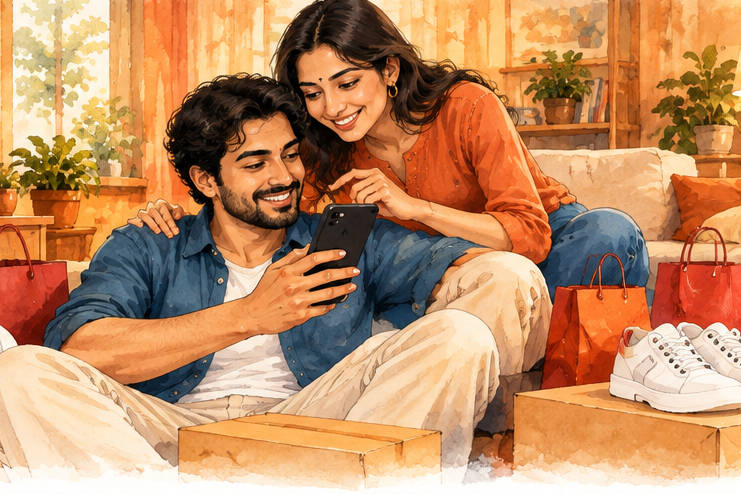
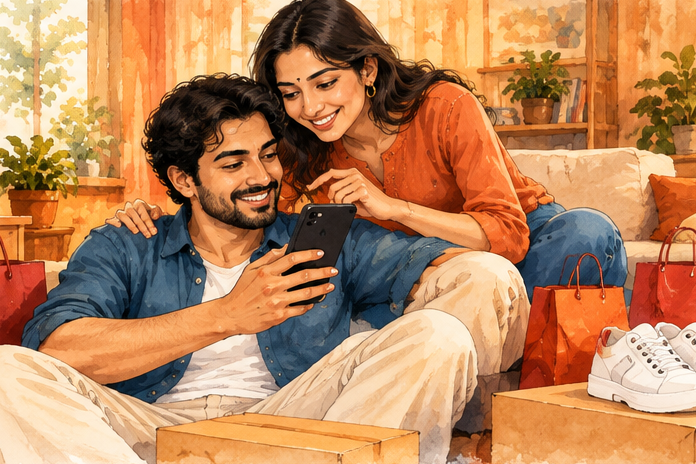
Run mailer illustrations edge to edge at full slot height
Drop the bottom fade mask and crop off the watercolour's white edge so
the painting fills the whole 600x364 / 600x400 slot like the reference
photos.

Claude-Session: https://claude.ai/code/session_01Xrrh9AtUaVEQQhgAmmX2d4

diff --git a/mailers/source/mailer1.html b/mailers/source/mailer1.html
@@ -9,7 +9,7 @@ h1{font-size:42px;line-height:1.14;font-weight:800;color:#E2501D;letter-spacing:
 .sub{font-size:23px;line-height:1.35;color:#555;margin-top:14px;font-weight:500}
 .btn{display:inline-block;background:#E8541A;color:#fff;font-weight:700;font-size:21px;line-height:1;padding:15px 24px;border-radius:26px;margin-top:22px;text-decoration:none}
 .vis{background:#fff}
-.vis img{display:block;width:600px;-webkit-mask-image:linear-gradient(to bottom,#000 0,#000 90%,transparent 100%)}
+.vis img{display:block;width:600px}
 .body{padding:24px 46px 0;font-size:17px;line-height:1.5;color:#555}
 .body p{margin-bottom:16px}
 .list{margin:2px 0 20px}

diff --git a/mailers/source/mailer2.html b/mailers/source/mailer2.html
@@ -9,7 +9,7 @@ h1{font-size:42px;line-height:1.14;font-weight:800;color:#E2501D;letter-spacing:
 .sub{font-size:23px;line-height:1.35;color:#555;margin-top:14px;font-weight:500}
 .btn{display:inline-block;background:#E8541A;color:#fff;font-weight:700;font-size:21px;line-height:1;padding:15px 24px;border-radius:26px;margin-top:22px;text-decoration:none}
 .vis{background:#fff}
-.vis img{display:block;width:600px;-webkit-mask-image:linear-gradient(to bottom,#000 0,#000 90%,transparent 100%)}
+.vis img{display:block;width:600px}
 .body{padding:24px 46px 0;font-size:17px;line-height:1.5;color:#555}
 .body p{margin-bottom:16px}
 .list{margin:2px 0 20px}

diff --git a/mailers/source/build.py b/mailers/source/build.py
@@ -16,7 +16,7 @@ h1{font-size:42px;line-height:1.14;font-weight:800;color:#E2501D;letter-spacing:
 .sub{font-size:23px;line-height:1.35;color:#555;margin-top:14px;font-weight:500}
 .btn{display:inline-block;background:#E8541A;color:#fff;font-weight:700;font-size:21px;line-height:1;padding:15px 24px;border-radius:26px;margin-top:22px;text-decoration:none}
 .vis{background:#fff}
-.vis img{display:block;width:600px;-webkit-mask-image:linear-gradient(to bottom,#000 0,#000 90%,transparent 100%)}
+.vis img{display:block;width:600px}
 .body{padding:24px 46px 0;font-size:17px;line-height:1.5;color:#555}
 .body p{margin-bottom:16px}
 .list{margin:2px 0 20px}
